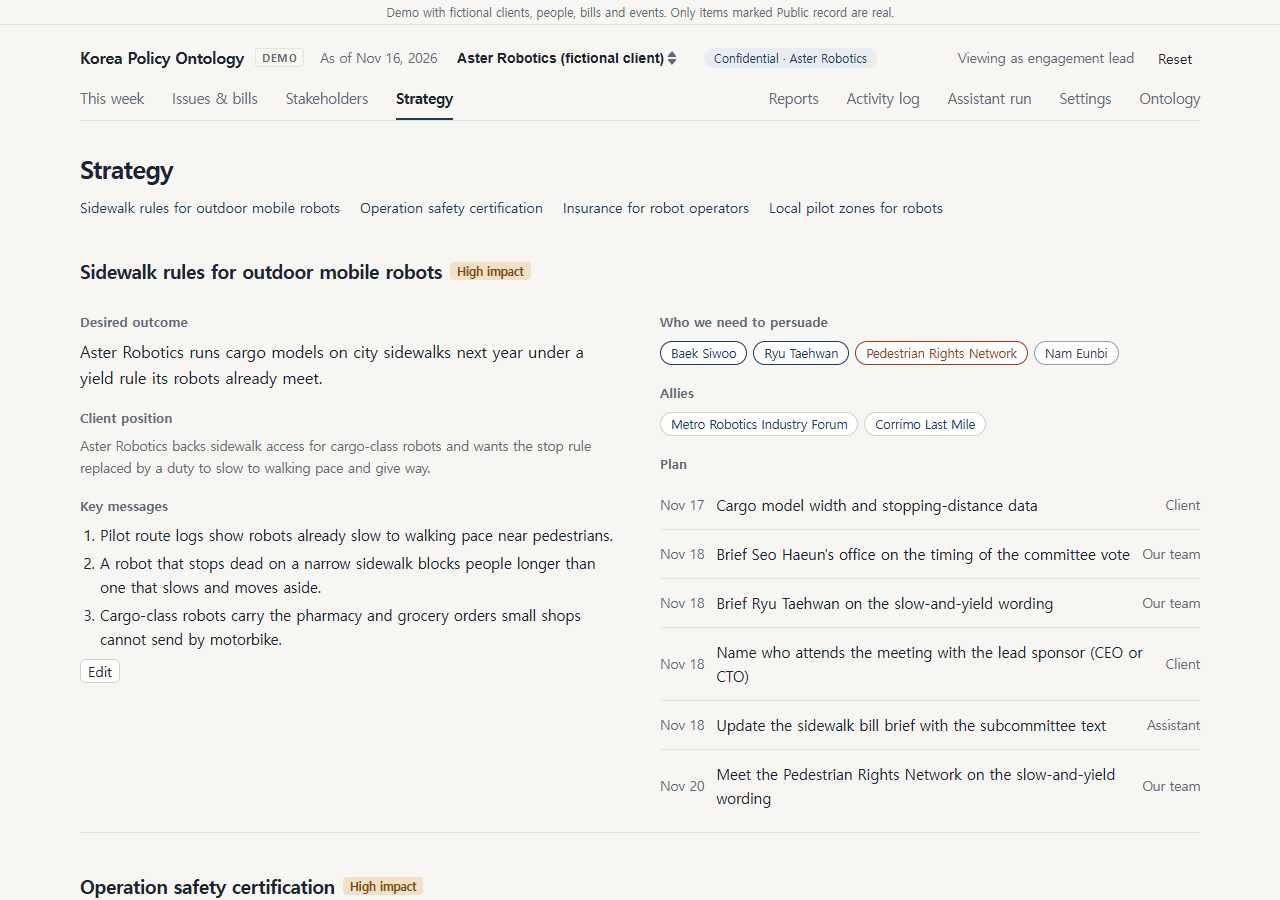
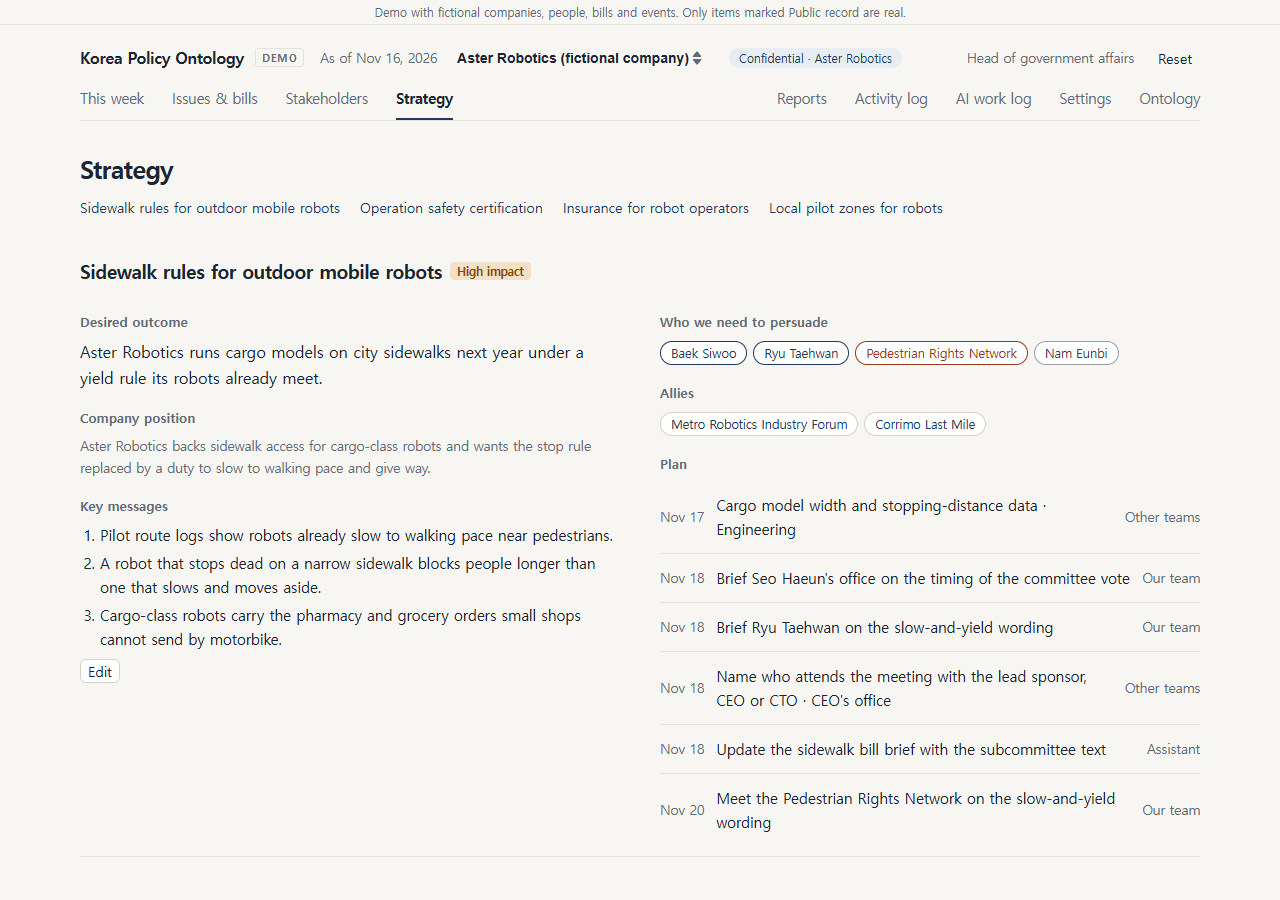
Re-capture the documentation images for the in-house framing and the new stakeholder map

diff --git a/README.md b/README.md
@@ -4,7 +4,7 @@ A tool for a company's in-house government-affairs (대관) team, modelled as an
 
 **[Live demo](https://ai-odyssey.github.io/korea-policy-ontology/)** · runs in the browser, no sign-in
 
-![Main flow: approve the week's decision, open the stakeholder it names, approve and send the weekly report](docs/img/main-flow.gif)
+![Main flow: approve the week's decision, open the stakeholder it names, approve the weekly report and send it to leadership](docs/img/main-flow.gif)
 
 The demo opens on a Monday morning at one of three fictional companies, each an example deployment of the same system. A rule-based assistant has already sorted the week's items, picked the one lawmaker worth meeting before this week's committee vote, and drafted the weekly report for leadership. You are the head of government affairs: you review what the assistant and an analyst prepared, and the activity log records who decided what.
 

diff --git a/docs/reference.md b/docs/reference.md
@@ -12,7 +12,7 @@ The app is used directly by a company's in-house government-affairs team, and th
 
 | Stakeholders | Strategy |
 |---|---|
-| ![Stakeholder network and who decides at each stage, with Baek Siwoo selected](img/stakeholders.png) | ![Strategy for one issue: outcome, position, messages, who to persuade, allies, plan](img/strategy.png) |
+| ![Stakeholder map by actor type, with who decides at each stage and Baek Siwoo selected](img/stakeholders.png) | ![Strategy for one issue: outcome, position, messages, who to persuade, allies, plan](img/strategy.png) |
 
 | Ontology | This week at phone width |
 |---|---|
